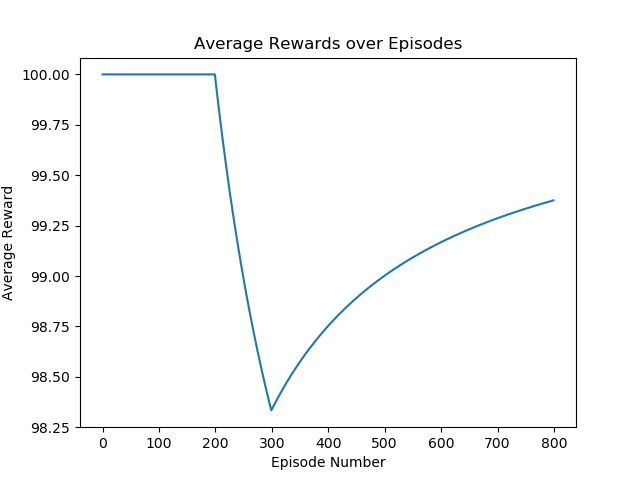
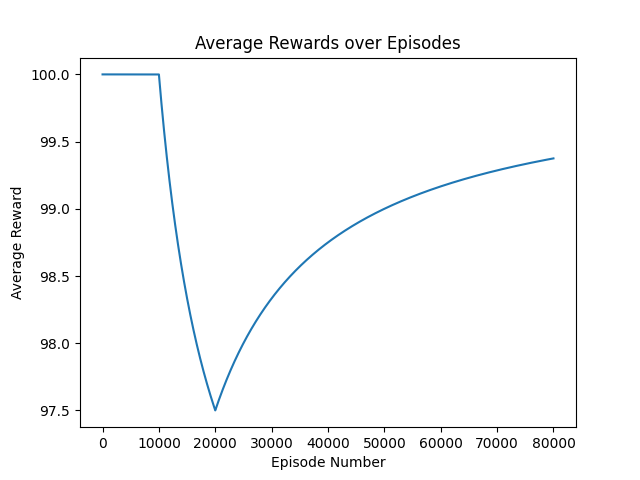
added comments to main

diff --git a/rl/main/main.py b/rl/main/main.py
@@ -13,12 +13,17 @@ import matplotlib.pyplot as plt
 from env import get_colors, get_distances, get_actions
 from policy_evaluator import PolicyEvaluator
 
+# Mapping for Obseravtion and Action space
 color_mapping = {color: i for i, color in enumerate(get_colors())}
 distance_mapping = {distance: i for i, distance in enumerate(get_distances())}
 action_mapping = {action: i for i, action in enumerate(get_actions())}
 
 
 class QLearningAgent:
+    """
+    Q-learning agent to form Q_table from a provided Dataset in a .csv file using BQ Algorithm.
+    """
+
     def __init__(
         self,
         color_mapping,
@@ -26,7 +31,7 @@ class QLearningAgent:
         action_mapping,
         learning_rate=0.5,
         discount_factor=0.99,
-        num_episodes=100,
+        num_episodes=10000,
         batch_size=32,
     ):
         self.color_mapping = color_mapping
@@ -40,15 +45,17 @@ class QLearningAgent:
         self.Q_table = self.initialize_Q_table()
         self.rewards = []
 
+    # Initialize Q_table with zeros
     def initialize_Q_table(self):
         num_colors = len(self.color_mapping)
         num_distances = len(self.distance_mapping)
         num_actions = len(self.action_mapping)
         Q_table = np.zeros(
             (num_colors, num_distances, num_actions, num_colors, num_distances)
-        )  # observation state contains preivous and current states
+        )  # observation state contains previous and current states
         return Q_table
 
+    # Populate replay buffer with data from dataset
     def populate_replay_buffer(self, dataset):
         with open(dataset, "r") as file:
             for line in file:
@@ -57,13 +64,16 @@ class QLearningAgent:
                 data_tuple = ast.literal_eval(data)
                 self.replay_buffer.append(data_tuple)
 
+    # Sample batch from replay buffer
     def sample_batch(self):
         return data_processing.random_slice(
             self.replay_buffer, min(len(self.replay_buffer), self.batch_size)
         )
 
+    # Update Q_table from batch
     def update_Q_table(self, batch):
         prev_state = batch[0][0]  # takes initial state as previous state
+        # iterate over batch and update Q_table
         for state, action, next_state, reward, goal in batch:
             prev_col, prev_dist = (
                 self.color_mapping[prev_state[0]],
@@ -92,12 +102,14 @@ class QLearningAgent:
                 td_target
                 - self.Q_table[curr_col, curr_dist, action, prev_col, prev_dist]
             )
+            # Update Q value
             self.Q_table[curr_col, curr_dist, action, prev_col, prev_dist] += (
                 self.learning_rate * td_error
             )
             prev_state = state
         self.rewards.append(reward)
 
+    # Train the agent for num_episodes and plot evaluation metrics
     def train(self):
         for episode in tqdm(
             range(self.num_episodes),
@@ -111,7 +123,6 @@ class QLearningAgent:
             self.rewards, self.num_episodes
         )
         PolicyEvaluator.plot_values_distribution(self.Q_table)
-        # print(PolicyEvaluator.number_of_steps_from_start(self.Q_table, color_mapping, distance_mapping))       )
 
     def export_Q_table(self):
         current_dir = os.path.dirname(os.path.realpath(__file__))
@@ -143,13 +154,13 @@ class QLearningAgent:
         with open(csv_file, "r") as csv_file:
             with open(txt_file, "w") as txt_file:
                 for i, line in enumerate(csv_file):
-                    # get colums from csv line t add apostrophes accordingly
+                    # get columns from csv line to add apostrophes accordingly
                     columns = line.split(",")
                     if columns[0] == "((lila":
                         columns[0] = "((lilas"
                     columns[0] = columns[0][0:2] + "'" + columns[0][2:] + "'"
-                    print(len(columns))
-                    print(len(columns[1]) - 6)
+                    # print(len(columns))
+                    # print(len(columns[1]) - 6)
                     if columns[1][len(columns[1]) - 6] == "t":
                         columns[1] = columns[1][:-6] + columns[1][-5:]
                     elif columns[1][len(columns[1]) - 4] == "t":
@@ -176,20 +187,27 @@ class QLearningAgent:
 
 ## TODO - Add performance tests for different configurations(learning rate, batch size, num_episodes..)
 if __name__ == "__main__":
-    training_dataset = False
+    # choose the fake or real dataset to train the agent
+    training_dataset = False # fake dataset
     logging.basicConfig(level=logging.INFO)
     agent = QLearningAgent(color_mapping, distance_mapping, action_mapping)
+    # agent parameter to be configured
     agent.batch_size = 4500
     agent.learning_rate = 0.7
-    # file_name = "hardware/code/libraries/buildhat++/examples/moving2_src/test/data0.csv"
-    # file_name get all pathes of files of hardware/code/libraries/buildhat++/examples/moving2_src/test/
+    # --deprecated-- file_name = "hardware/code/libraries/buildhat++/examples/moving2_src/test/data0.csv"
+    # --deprecated-- file_name get all pathes of files of hardware/code/libraries/buildhat++/examples/moving2_src/test/
+    # --deprecated-- file_name = ["rl/main/generated_dataset/fake_dataset.txt"]
+
+    # Get all real dataset files
     file_paths = glob.glob(
         os.path.join(
             "hardware/code/libraries/buildhat++/examples/moving2_src/test/", f"*.csv"
         )
     )
-    # file_name = ["rl/main/generated_dataset/fake_dataset.txt"]
+    
+    # Train the agent with all real dataset files
     for file_name in file_paths:
+        # skip data9 and data3 files because of faulty data
         if "data9" in file_name or "data3" in file_name:
             continue
         print(file_name)
@@ -199,8 +217,10 @@ if __name__ == "__main__":
         agent.replay_buffer = deque(maxlen=10000)
         agent.populate_replay_buffer("rl/main/generated_dataset/training_dataset.txt")
         agent.train()
+        
+    # Export Q_table to .npy and .csv files
     agent.export_Q_table()
-    agent.convert_q_table_to_csv(
-        "Moving2/rl/main/Q_table.npy", "Moving2/rl/main/Q_table.csv"
-    )
-# /home/yessmine/Studies/6Semester/Project/Moving2/rl/main/Q_table.csv
+    base_dir = os.path.expanduser("~/Studies/6Semester/Project/Moving2/rl/main")
+    file_path_npy = os.path.join(base_dir, "Q_table.npy")
+    file_path_csv = os.path.join(base_dir, "Q_table.csv")
+    agent.convert_q_table_to_csv(file_path_npy, file_path_csv)

diff --git a/rl/main/policy_evaluator.py b/rl/main/policy_evaluator.py
@@ -83,7 +83,7 @@ class PolicyEvaluator:
         directory = os.path.dirname(os.path.abspath(__file__))
         Q_values = Q_table.flatten()
         plt.figure(figsize=(10, 6))
-        plt.hist(Q_values, bins=30, alpha=0.75, color="blue", edgecolor="black")
+        plt.hist(Q_values, bins=2, alpha=0.75, color="blue", edgecolor="black")
         plt.title("Distribution of Q-values")
         plt.xlabel("Q-value")
         plt.ylabel("Frequency")

diff --git a/rl/main/test_dummy.py b/rl/main/test_dummy.py
@@ -5,4 +5,3 @@ import pytest
 def test_dummy():
     assert 1 == 1, "This should always pass"
     # test
-
